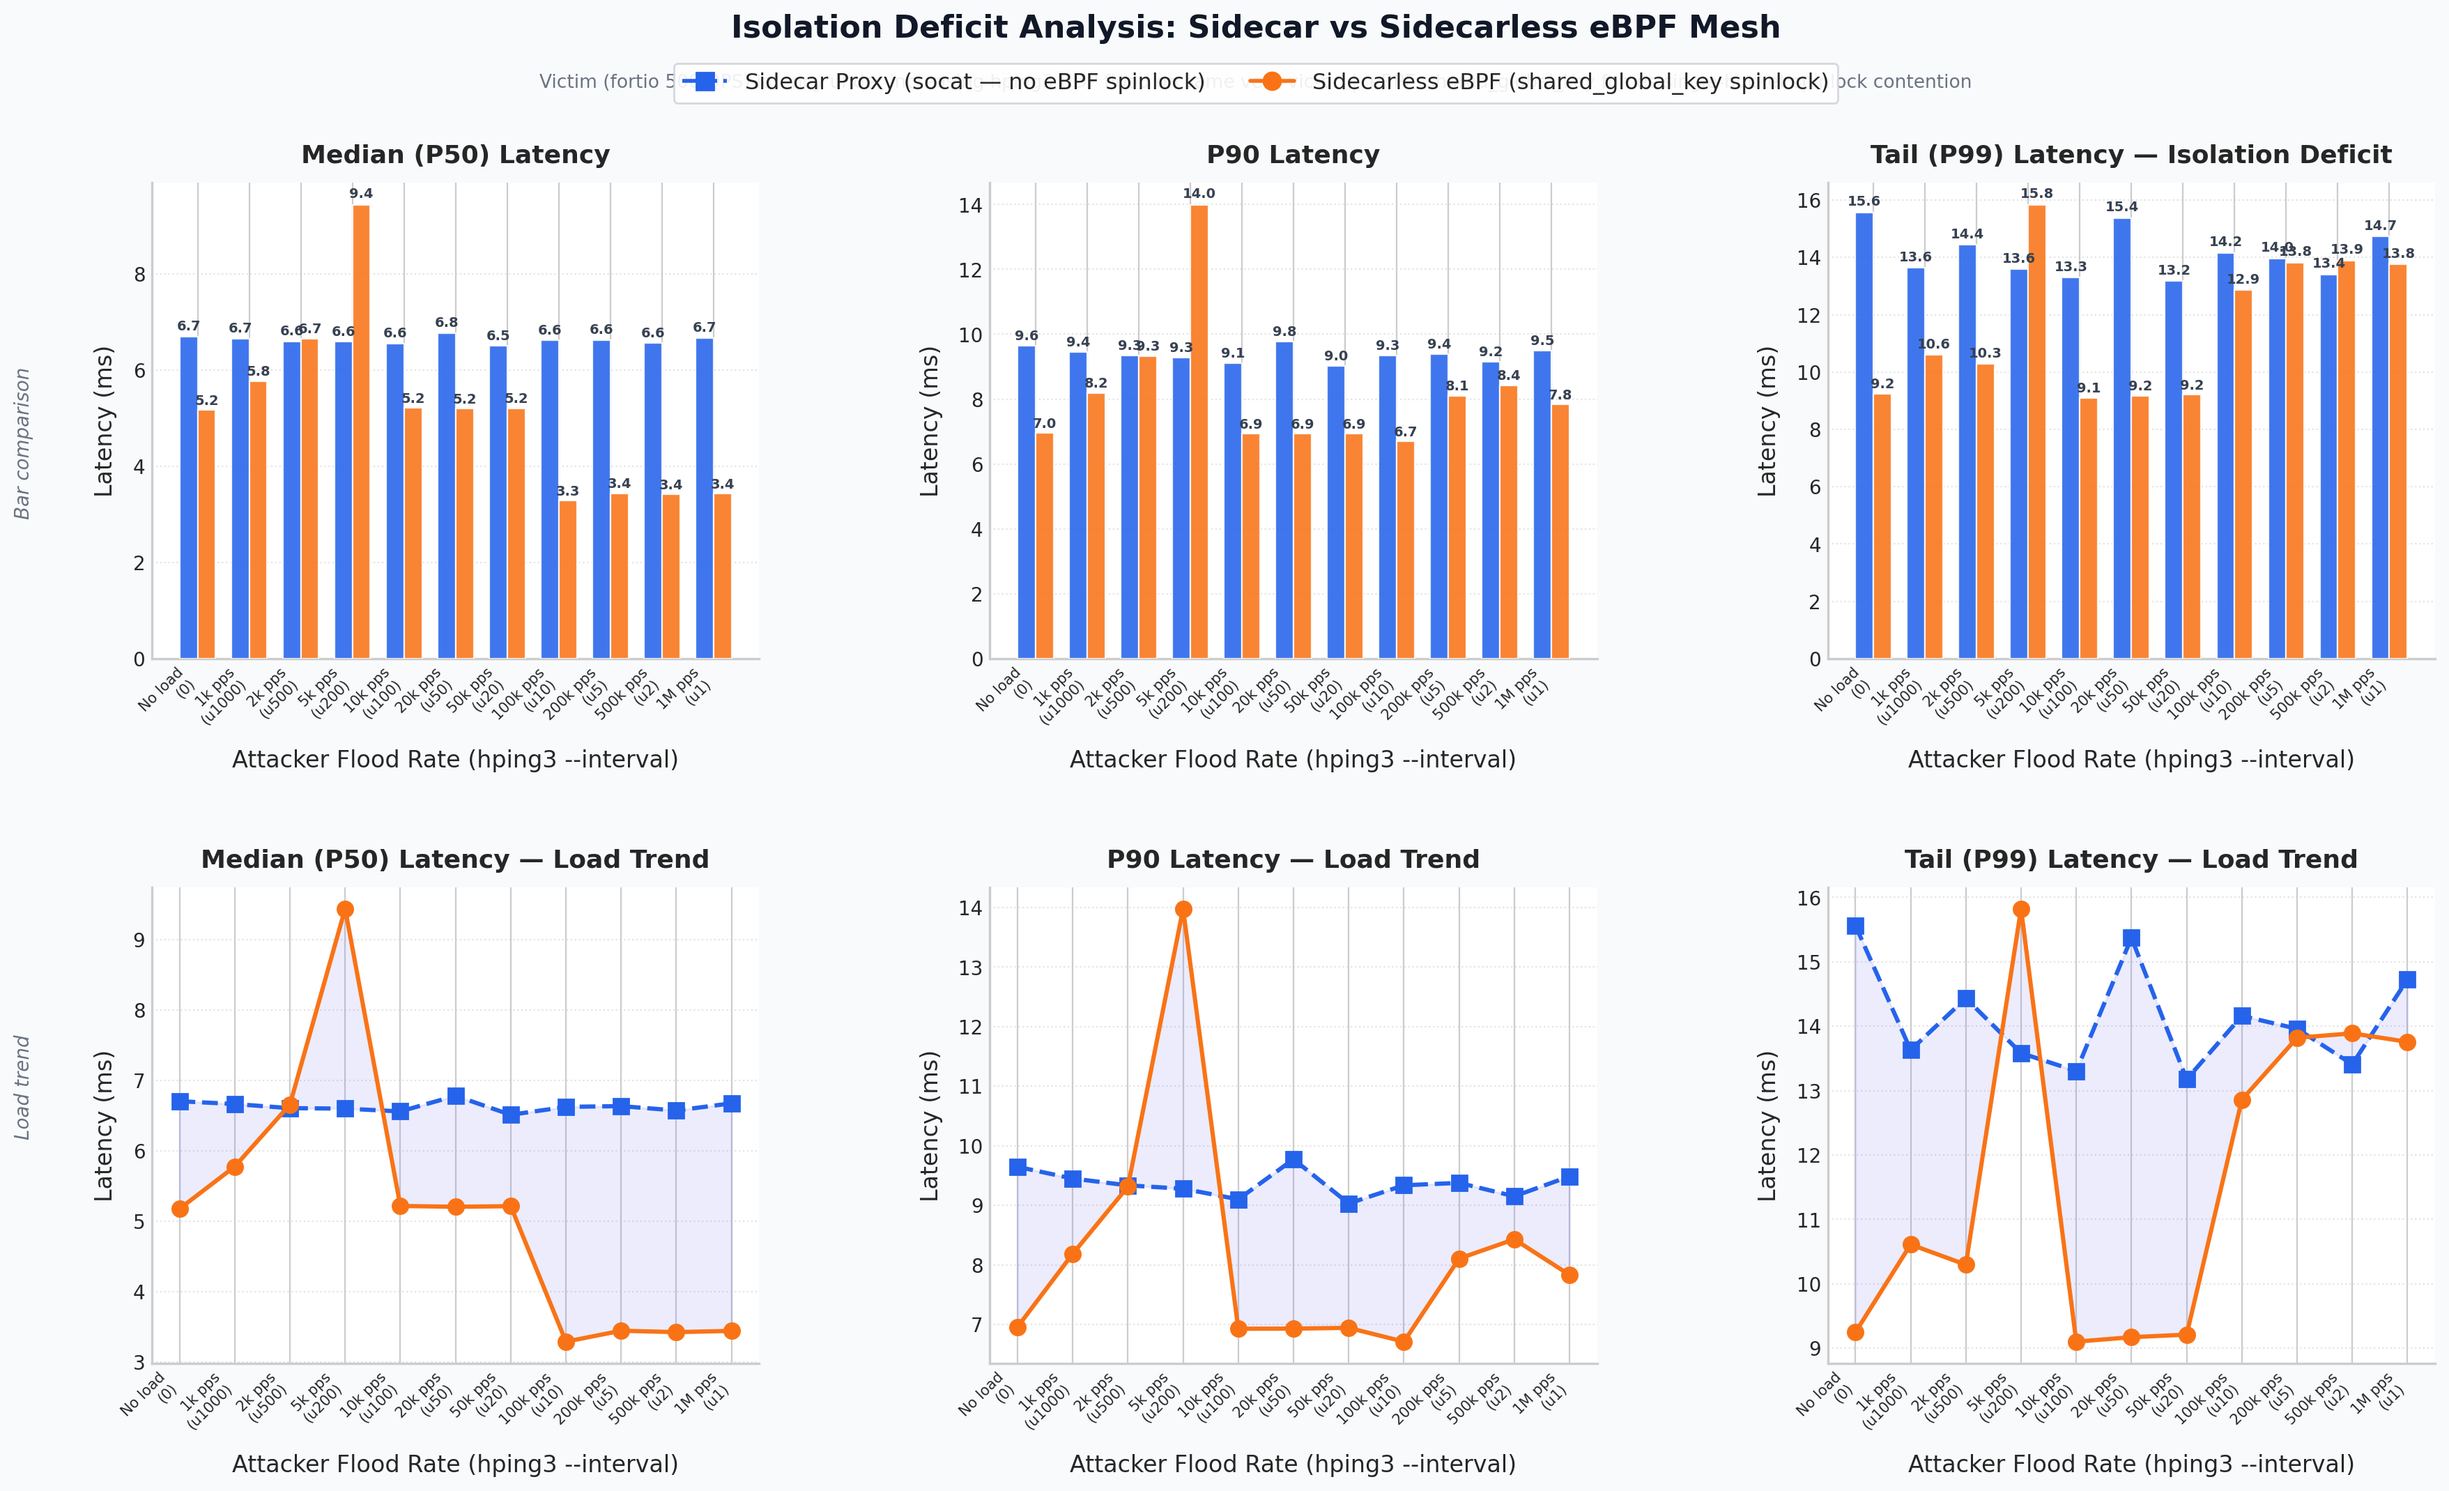
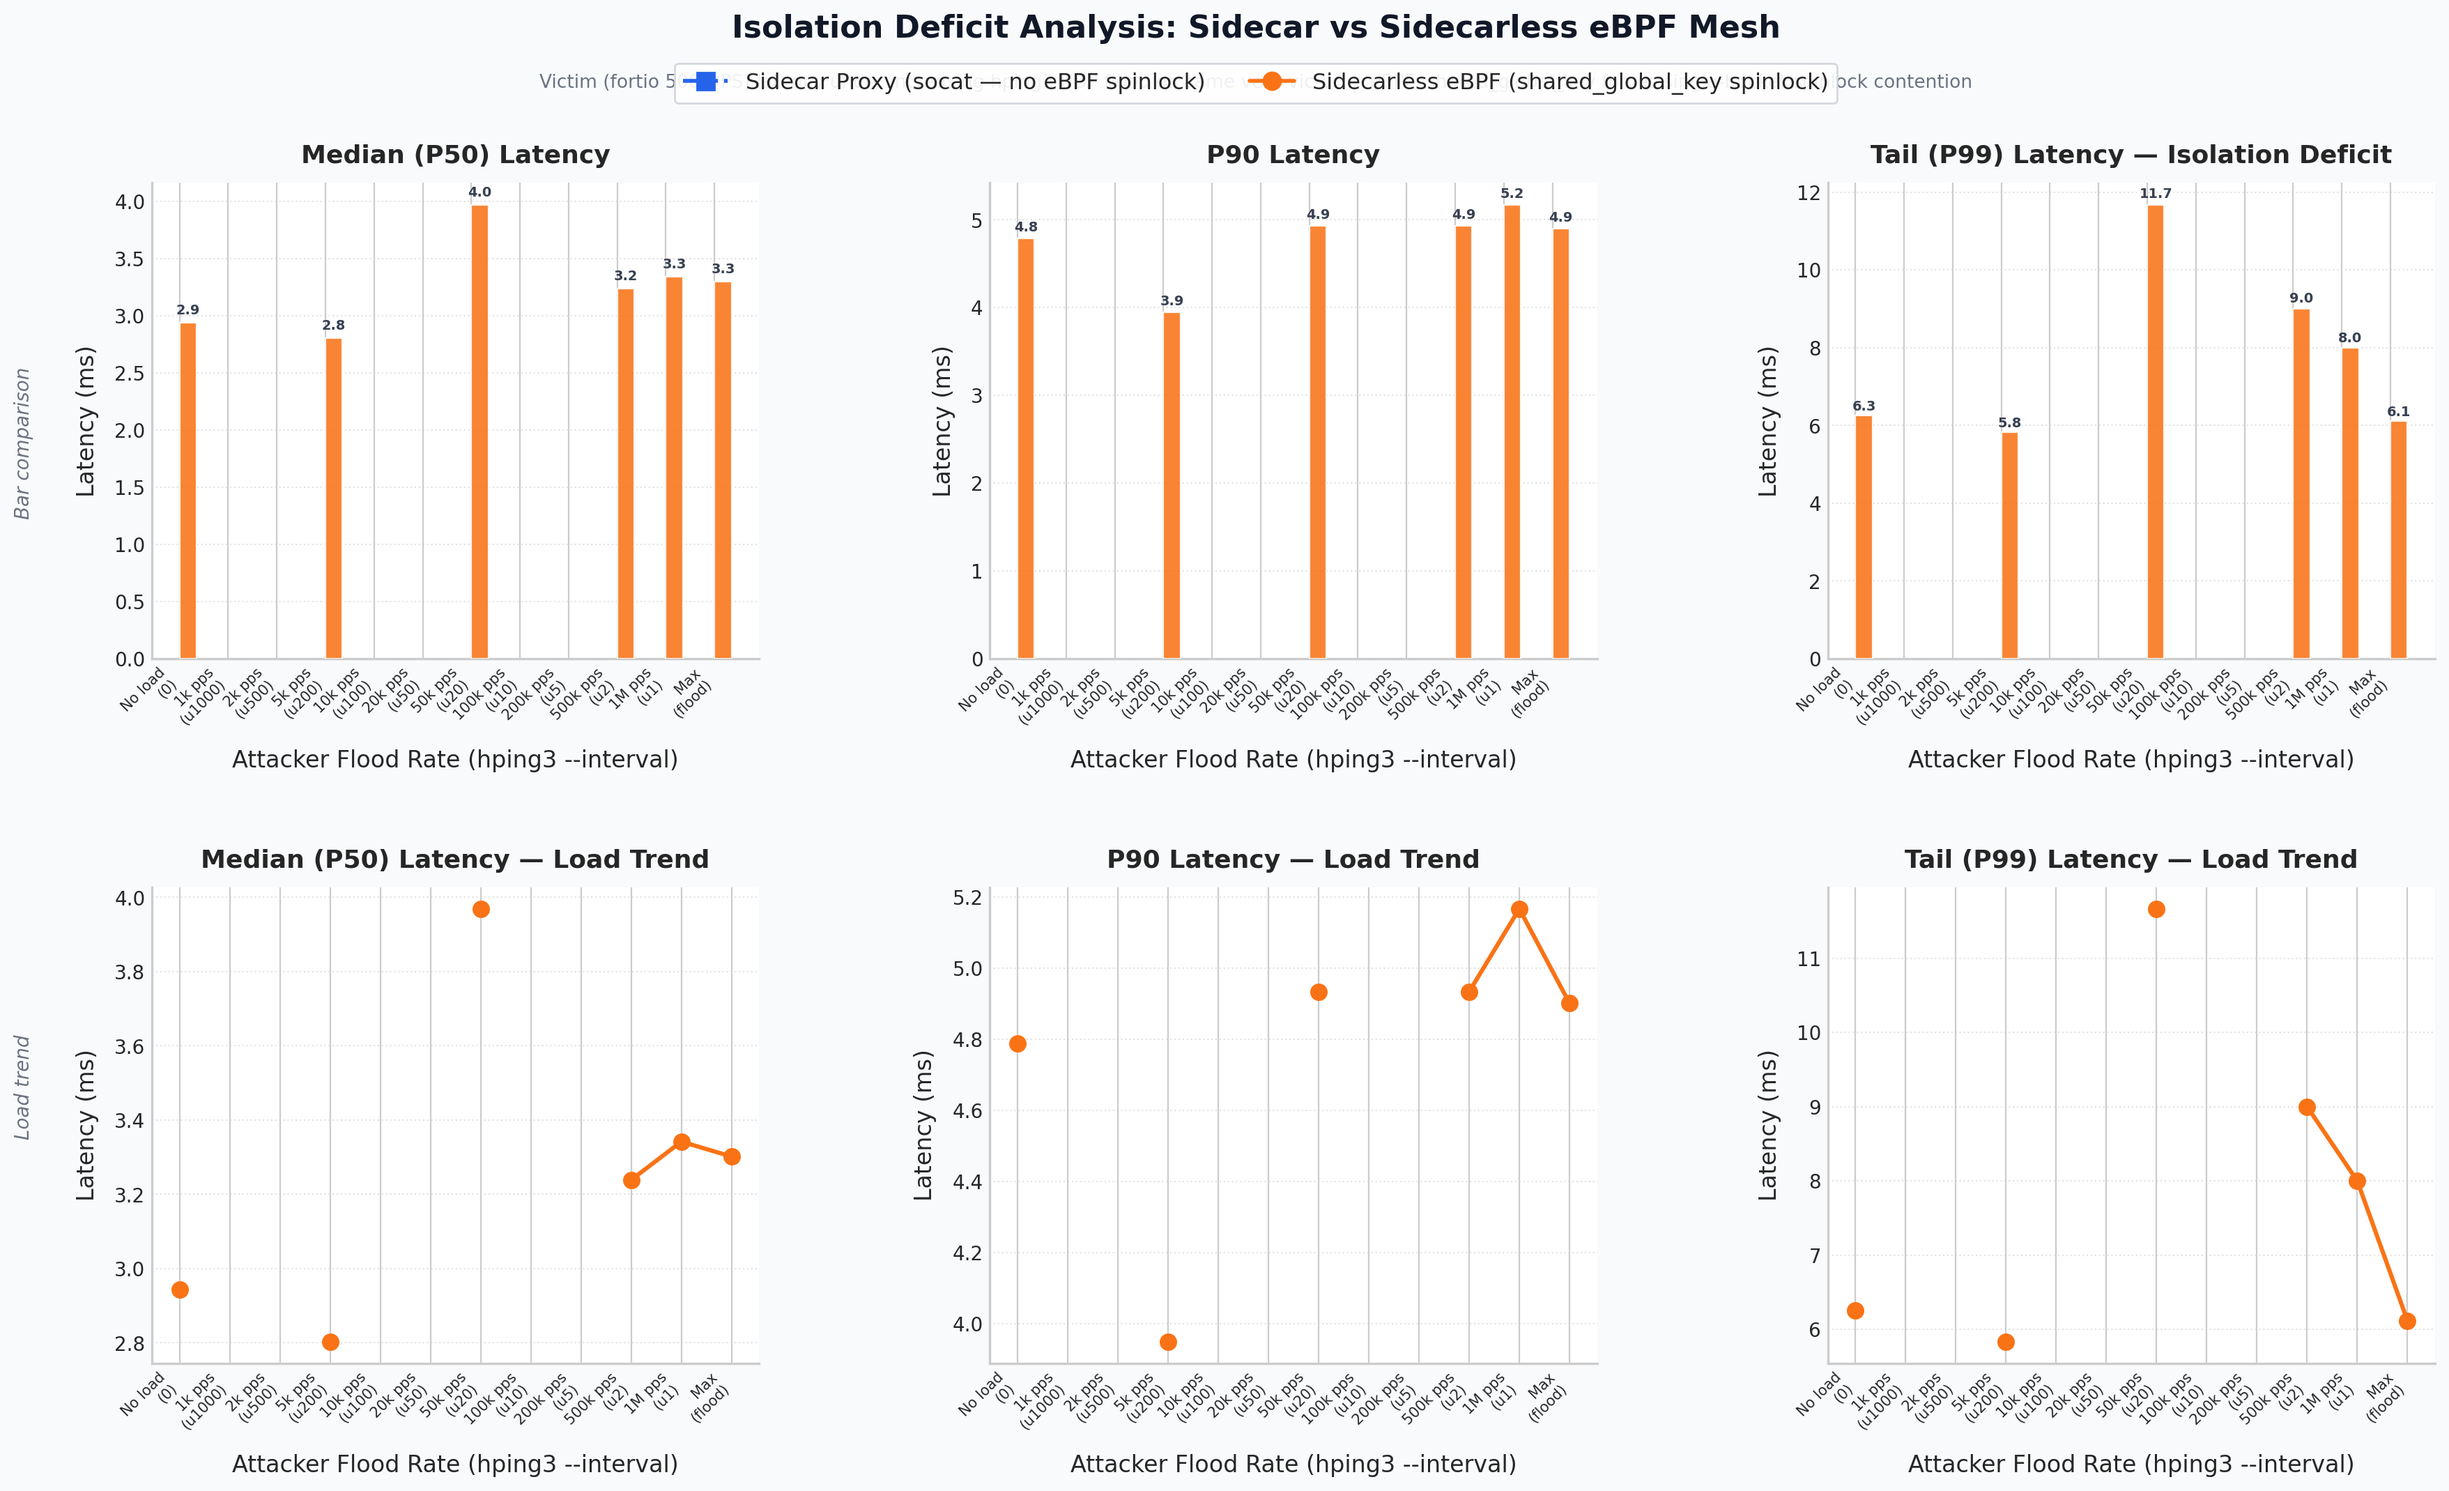
feat: stage 1 instrumentation

diff --git a/test_bed/ebpf_mesh_router.c b/test_bed/ebpf_mesh_router.c
@@ -47,6 +47,29 @@ struct {
  */
 static __u32 shared_global_key = 0;
 
+/*
+ * CONTENTION EXPERIMENT: Lock latency histogram.
+ */
+struct {
+    __uint(type, BPF_MAP_TYPE_PERCPU_ARRAY);
+    __uint(max_entries, 64);
+    __type(key, __u32);
+    __type(value, __u64);
+    __uint(pinning, LIBBPF_PIN_BY_NAME);
+} lock_latency_hist SEC(".maps");
+
+static __always_inline __u32 log2l(__u64 v)
+{
+    __u32 r = 0;
+    if (v >= 0x100000000ULL) { v >>= 32; r += 32; }
+    if (v >= 0x10000ULL) { v >>= 16; r += 16; }
+    if (v >= 0x100ULL) { v >>= 8; r += 8; }
+    if (v >= 0x10ULL) { v >>= 4; r += 4; }
+    if (v >= 0x4ULL) { v >>= 2; r += 2; }
+    if (v >= 0x2ULL) { r += 1; }
+    return r;
+}
+
 SEC("classifier")
 int mesh_router(struct __sk_buff *skb) {
     void *data_end = (void *)(long)skb->data_end;
@@ -88,8 +111,17 @@ int mesh_router(struct __sk_buff *skb) {
         updated_stats.bytes   = skb->len;
     }
 
-    // Force write-lock acquisition on the shared bucket
+    // Force write-lock acquisition on the shared bucket, measured
+    __u64 start = bpf_ktime_get_ns();
     bpf_map_update_elem(&flow_map, &shared_global_key, &updated_stats, BPF_ANY);
+    __u64 duration = bpf_ktime_get_ns() - start;
+
+    __u32 slot = log2l(duration);
+    if (slot >= 64) slot = 63;
+    __u64 *count = bpf_map_lookup_elem(&lock_latency_hist, &slot);
+    if (count) {
+        *count += 1;
+    }
 
     return TC_ACT_OK;
 }

diff --git a/test_bed/collect_cgroup_stats.py b/test_bed/collect_cgroup_stats.py
@@ -1,0 +1,40 @@
+#!/usr/bin/env python3
+import sys
+import time
+import os
+
+def main():
+    if len(sys.argv) < 3:
+        print("Usage: collect_cgroup_stats.py <cgroup_path> <output_file>")
+        sys.exit(1)
+    
+    cgroup_path = sys.argv[1]
+    out_file = sys.argv[2]
+    
+    cpu_stat_path = os.path.join(cgroup_path, "cpu.stat")
+    if not os.path.exists(cpu_stat_path):
+        print(f"Error: {cpu_stat_path} not found.")
+        sys.exit(1)
+    
+    with open(out_file, "w") as f:
+        f.write("timestamp,nr_periods,nr_throttled,throttled_time\n")
+        try:
+            while True:
+                ts = time.time()
+                with open(cpu_stat_path, "r") as stat_f:
+                    stats = stat_f.read()
+                
+                parsed = {}
+                for line in stats.strip().split("\n"):
+                    parts = line.split()
+                    if len(parts) == 2:
+                        parsed[parts[0]] = parts[1]
+                
+                f.write(f"{ts},{parsed.get('nr_periods', 0)},{parsed.get('nr_throttled', 0)},{parsed.get('throttled_time', 0)}\n")
+                f.flush()
+                time.sleep(0.1)
+        except KeyboardInterrupt:
+            pass
+
+if __name__ == "__main__":
+    main()

diff --git a/test_bed/collect_ebpf_stats.py b/test_bed/collect_ebpf_stats.py
@@ -1,0 +1,44 @@
+#!/usr/bin/env python3
+import sys
+import time
+import subprocess
+import json
+
+def get_hist():
+    res = subprocess.run(['sudo', 'bpftool', 'map', 'dump', 'name', 'lock_latency_hist', '-j'], capture_output=True, text=True)
+    if res.returncode != 0:
+        return None
+    try:
+        return json.loads(res.stdout)
+    except:
+        return None
+
+def main():
+    if len(sys.argv) < 2:
+        print('Usage: collect_ebpf_stats.py <output_jsonl>')
+        sys.exit(1)
+    
+    out_file = sys.argv[1]
+    
+    with open(out_file, 'w') as f:
+        try:
+            while True:
+                ts = time.time()
+                data = get_hist()
+                if data:
+                    record = {'timestamp': ts, 'histogram': data}
+                    f.write(json.dumps(record) + '\n')
+                    f.flush()
+                time.sleep(1.0)
+        except KeyboardInterrupt:
+            pass
+        
+        # One final dump
+        ts = time.time()
+        data = get_hist()
+        if data:
+            record = {'timestamp': ts, 'histogram': data}
+            f.write(json.dumps(record) + '\n')
+
+if __name__ == '__main__':
+    main()
